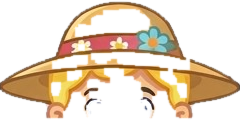
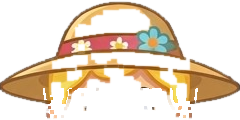
Oblékání: klobouk, šaty a zimní bunda Hanky z čistých plochých obrázků, pláštěnka bez obličeje, Hanka nosí červenou šálu

diff --git a/src/app/prvouka/PrvoukaObleceni.tsx b/src/app/prvouka/PrvoukaObleceni.tsx
@@ -45,12 +45,11 @@ const ITEMS: Item[] = [
 // Hanka: rámeček 240 × 495 px, obrázky v hanka/ („f-…“ jsou ploché kusy jen na náhled v šatníku).
 const H_ITEMS: Item[] = [
   { id: 'cepice', name: 'Čepice', slot: 'hlava', thumb: 'hanka/cepice', pieces: [{ src: 'hanka/cepice', box: [45, 5, 213, 126], z: 9 }] },
-  { id: 'klobouk', name: 'Klobouk', slot: 'hlava', thumb: 'hanka/f-klobouk', pieces: [{ src: 'hanka/klobouk', box: [0, 31, 240, 151], z: 9 }] },
-  { id: 'sala', name: 'Šála', slot: 'krk', thumb: 'hanka/f-sala', pieces: [{ src: 'hanka/sala', box: [39, 159, 201, 266], z: 8 }] },
+  { id: 'klobouk', name: 'Klobouk', slot: 'hlava', thumb: 'hanka/f-klobouk', pieces: [{ src: 'hanka/f-klobouk', box: [6, 28, 234, 133], z: 9 }] },
   { id: 'cervene-triko', name: 'Červené tričko', slot: 'vrsek', thumb: 'hanka/f-triko', pieces: [] },
-  { id: 'saty', name: 'Šaty', slot: 'vrsek', thumb: 'hanka/f-saty', pieces: [{ src: 'hanka/saty', box: [23, 184, 216, 396], z: 4 }] },
+  { id: 'saty', name: 'Šaty', slot: 'vrsek', thumb: 'hanka/f-saty', pieces: [{ src: 'hanka/f-saty', box: [50, 196, 190, 398], z: 4 }] },
   { id: 'plastenka', name: 'Pláštěnka', slot: 'bunda', thumb: 'hanka/plastenka', pieces: [{ src: 'hanka/plastenka', box: [12, 30, 222, 379], z: 6 }] },
-  { id: 'zimni-bunda', name: 'Zimní bunda', slot: 'bunda', thumb: 'hanka/f-zimni-bunda', pieces: [{ src: 'hanka/zimni-bunda', box: [17, 149, 220, 361], z: 6 }] },
+  { id: 'zimni-bunda', name: 'Zimní bunda', slot: 'bunda', thumb: 'hanka/f-zimni-bunda', pieces: [{ src: 'hanka/f-zimni-bunda', box: [20, 166, 218, 360], z: 6 }] },
   { id: 'kratasy', name: 'Kraťasy', slot: 'dolu', thumb: 'hanka/f-kratasy', pieces: [] },
   { id: 'leginy', name: 'Legíny', slot: 'dolu', thumb: 'hanka/leginy', pieces: [{ src: 'hanka/leginy', box: [53, 364, 181, 426], z: 2 }] },
   { id: 'dziny', name: 'Džíny', slot: 'dolu', thumb: 'hanka/dziny', pieces: [{ src: 'hanka/dziny', box: [39, 344, 201, 421], z: 2 }] },
